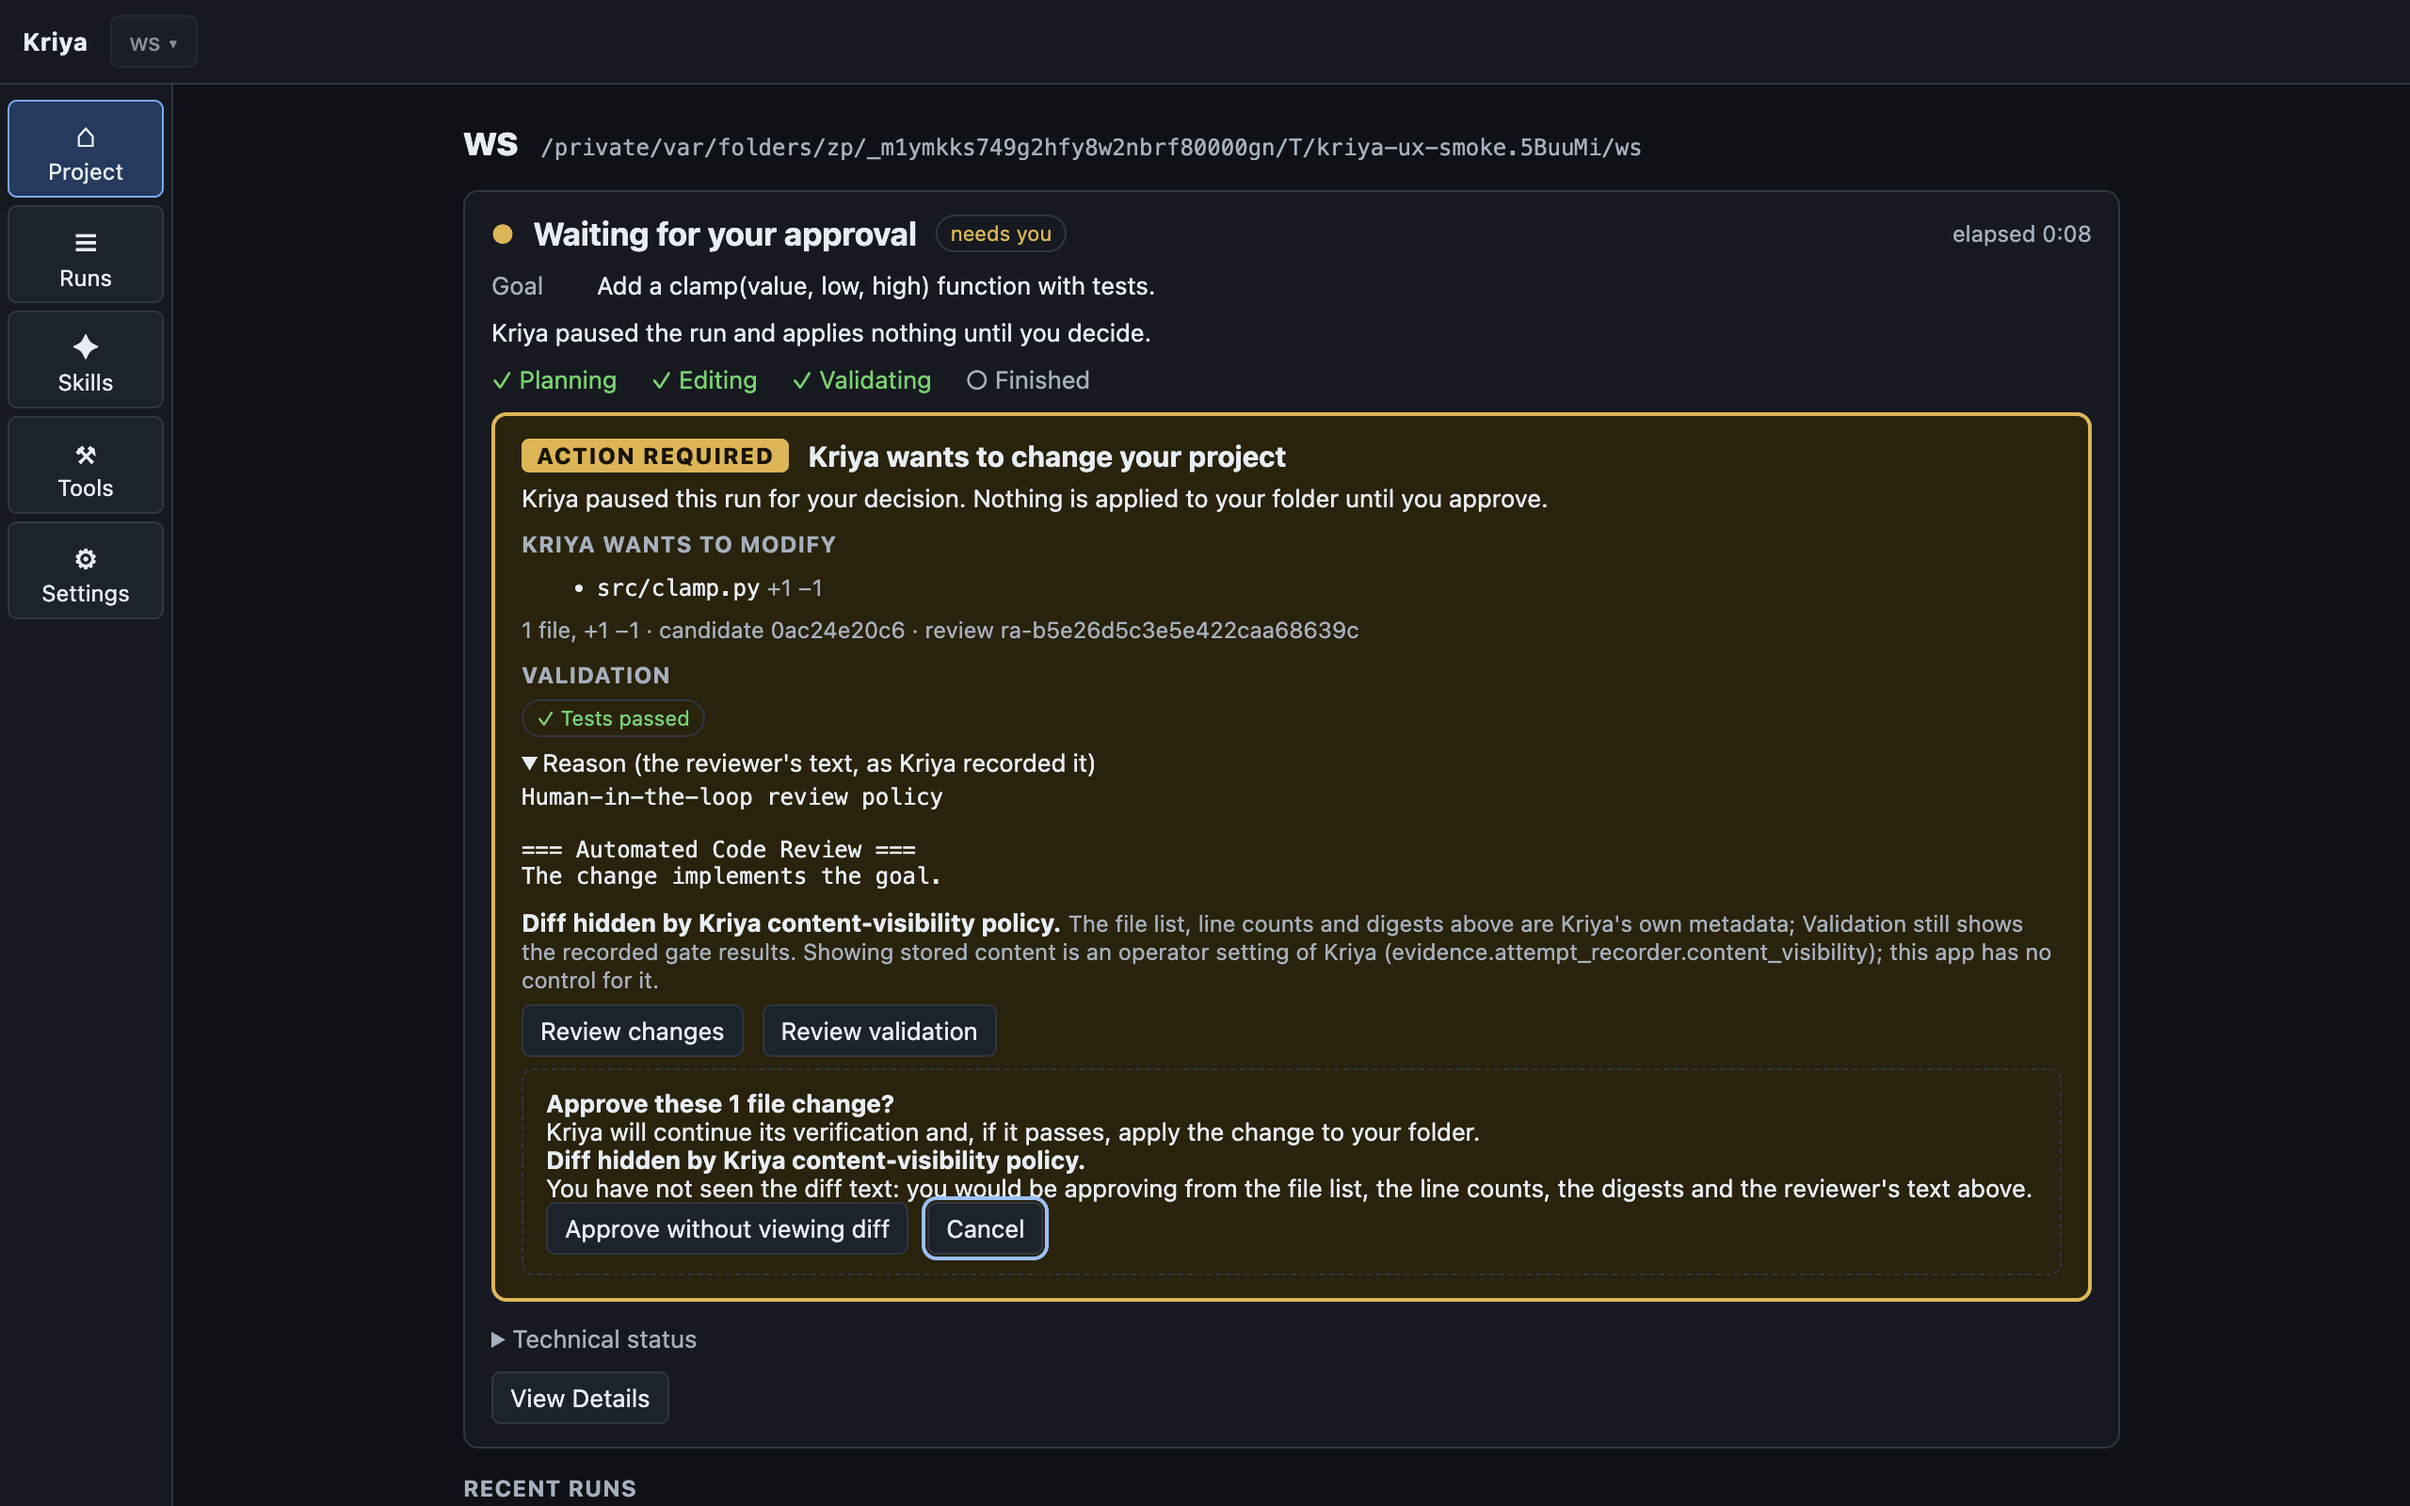
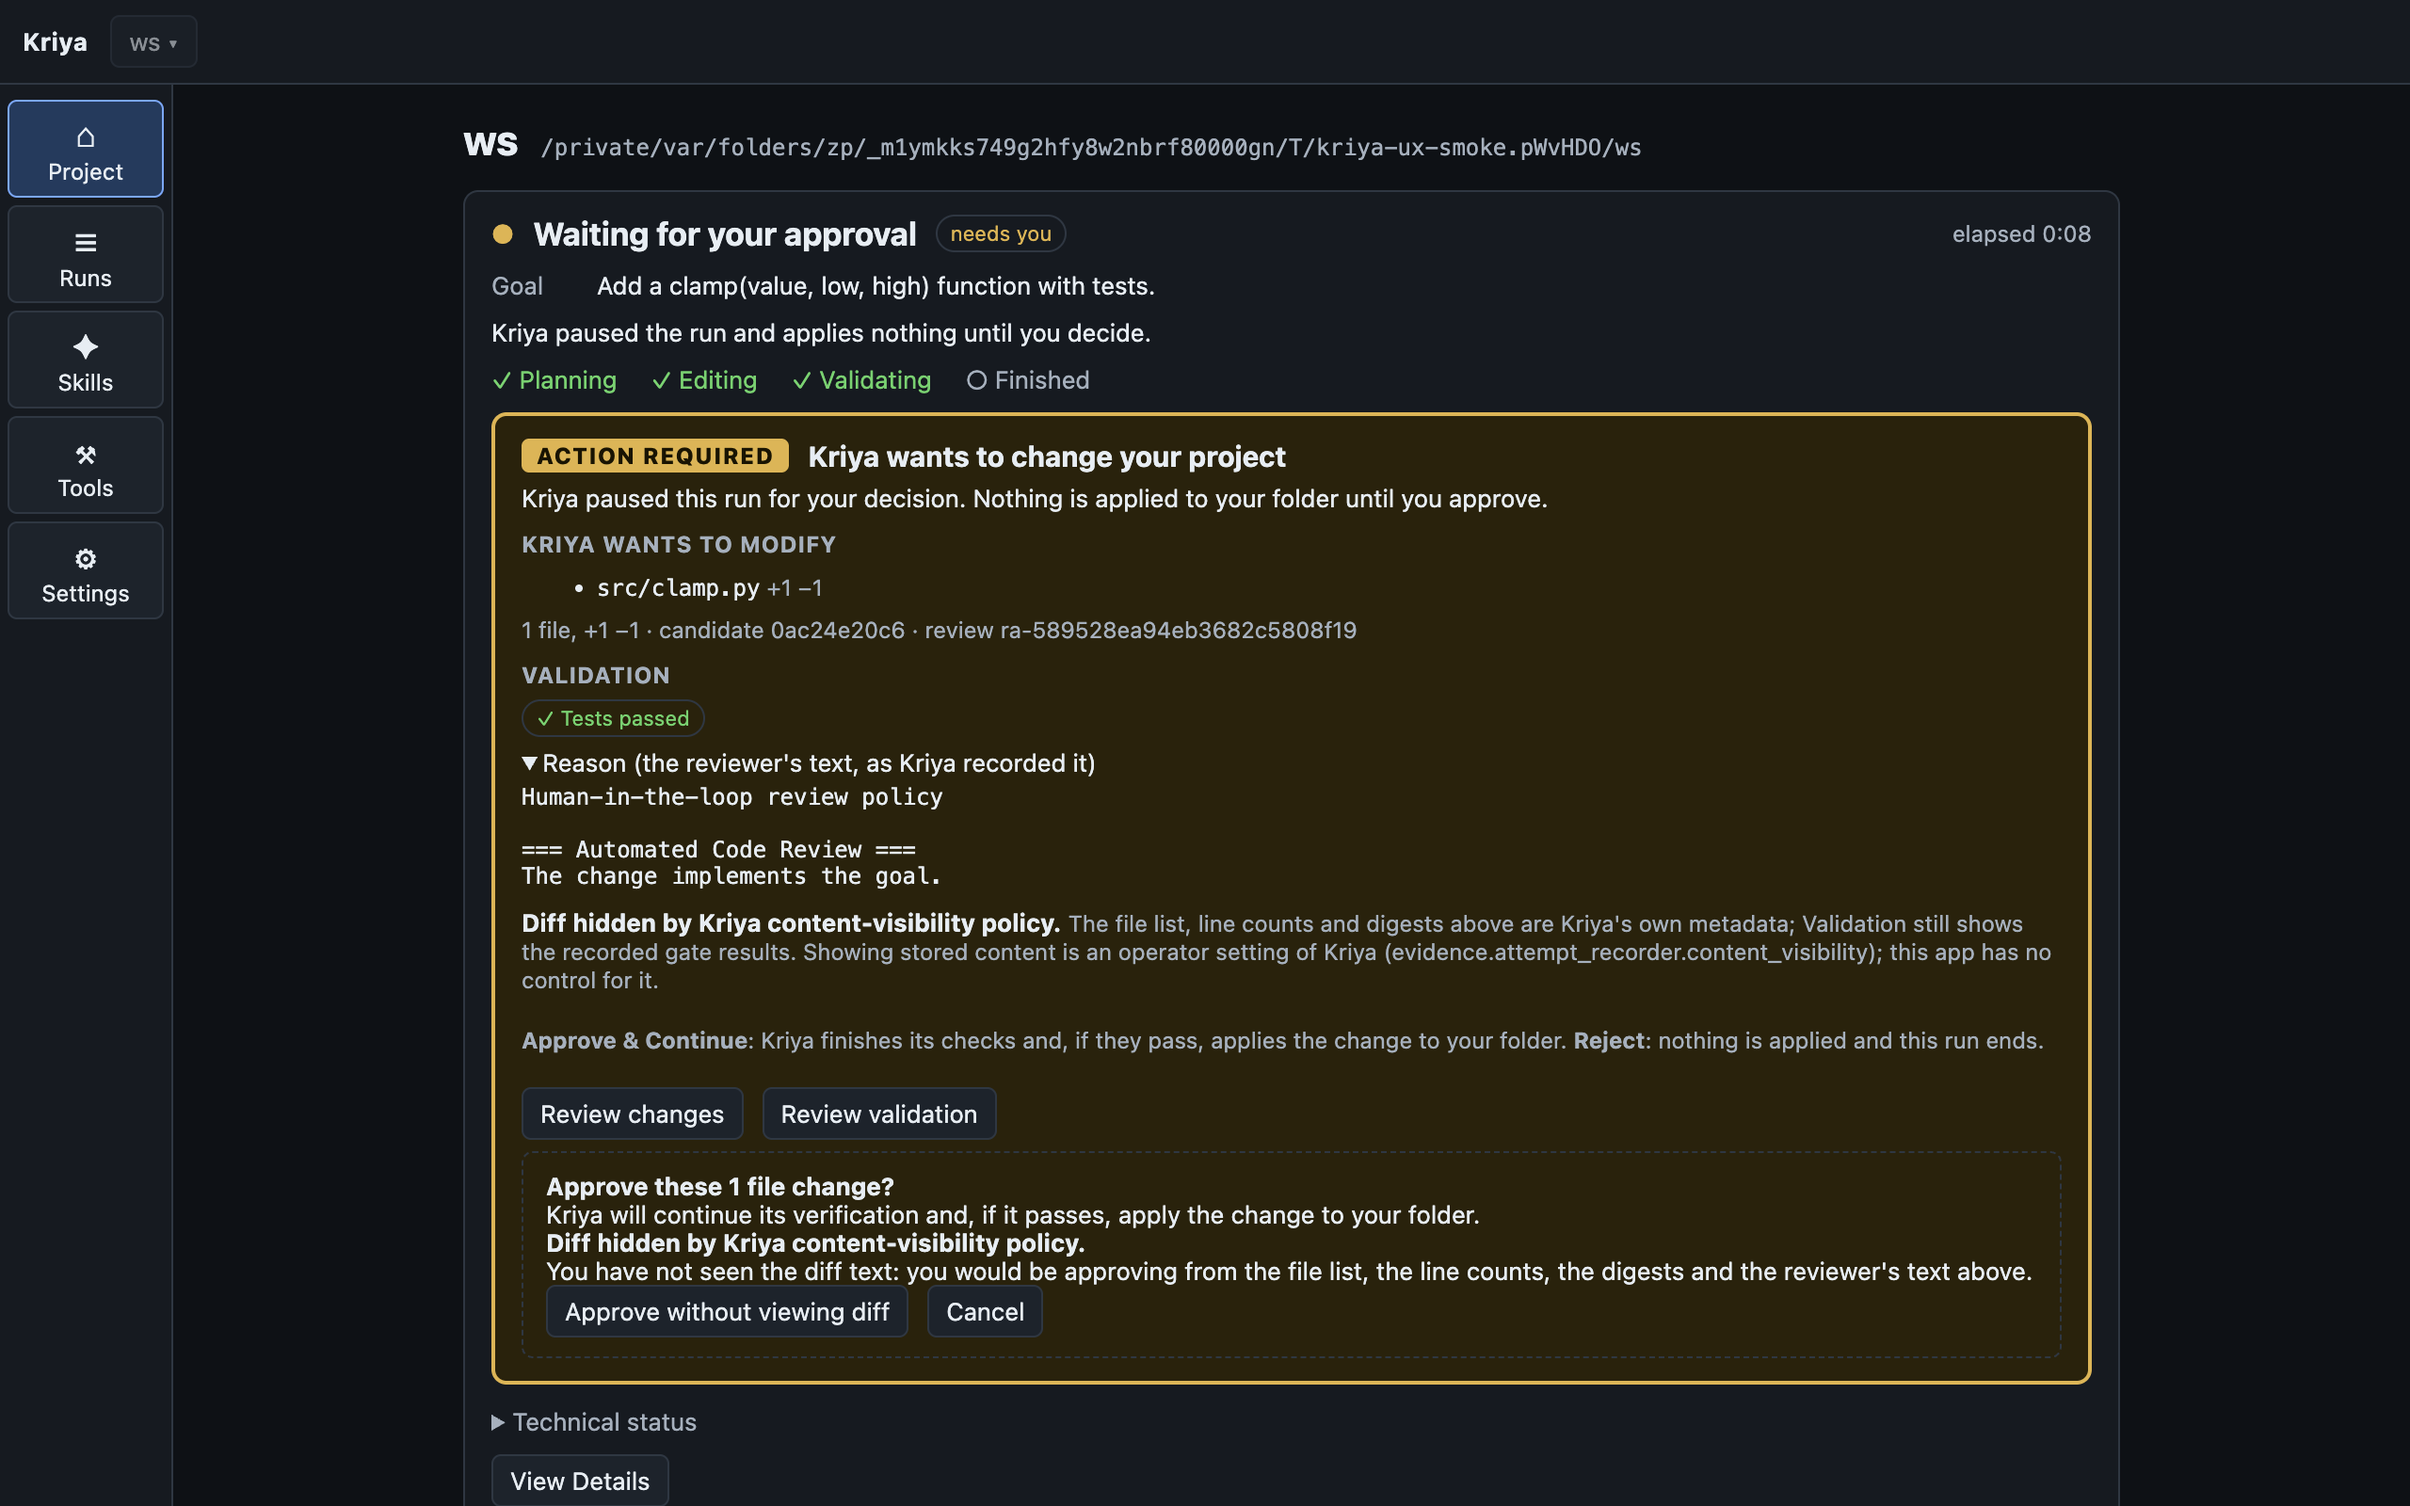
docs(demo-v2): UX correction record, runbook and evidence follow the Project Home flow
UX-CORRECTION.md section 5 (what exists, measured layout at five window sizes, the independent review and what was done with each finding); OWNER_RUNBOOK sections C, D, E, F follow the new journey (Project page, ACTION REQUIRED, Approve & Continue, Details); smoke evidence refreshed after the review fixes.

Changed region(s): [[0.1875, 0.6562, 0.875, 1.0], [0.4375, 0.4062, 0.5625, 0.4375], [0.625, 0.0938, 0.6562, 0.125]]

diff --git a/handover/DEMO-V2/UX-CORRECTION.md b/handover/DEMO-V2/UX-CORRECTION.md
@@ -75,4 +75,40 @@ Stop Run: not offered. There is no stop operation in the host port; adding one w
 
 ## 5. Implementation record
 
-(Filled in as the work lands: files changed, tests, screenshots, review.)
+Commits on `demo/v2` after `ea08255` (not tagged): `029a5f5` Project Home and run flow, `f9a9459` UX smoke + evidence + button specificity, then the review-findings commit and the docs commit (see `git log`).
+
+What exists now (TRACED in the code, MEASURED in the smoke `handover/DEMO-V2/evidence/ux-correction/results.json`):
+
+- **Landing.** `Shell` derives the chosen page per open folder (no effect): a new folder always shows page 1, Project. MEASURED: landing page `project`, current rail item Project, the goal box present, compact `Ready`, details closed, folder name as the heading.
+- **Start Run placement.** Goal box, then one line (`Ready · model · N skills · N tools · View readiness details`), the shortcut hint and the button; Recent runs and `Project details` follow. MEASURED at content sizes 1280x800, 1400x900 (the app's default window), 1536x960, 1280x720 and 1100x700: Start Run's bottom edge is at 263 px in every case, fully visible, no page or main scroll. The owner's display is 3456x2234 native (a 1728x1117 point desktop), so the default 1400x900 window fits.
+- **Shortcut.** Cmd/Ctrl+Enter in the goal box starts the run (disabled when empty or blocked; plain Enter only adds a line; a second press cannot start a second run). Shown beside the button. Cmd/Ctrl+1..5 select Project, Runs, Skills, Tools, Settings; they follow the rail order.
+- **Current run.** The page becomes the run (goal composer gone). The state word, one sentence and a four-step list are all derived by `core/runPhase.ts` from Kriya's records; Technical status (run id, record tallies, DERIVED liveness, source) is one disclosure down.
+- **ACTION REQUIRED.** The change review (moved to `core/ApprovalReview.tsx` so the Project page can host it; exactly one "Change review" section exists) is a boxed panel: the files, `+n -m`, the recorded validation, the reviewer text, what each button does, **Reject** and **Approve & Continue**. The confirmation step (Cancel focused, "Approve without viewing diff" when the diff text is hidden) is unchanged: approval semantics did not change.
+- **Strip on every other page.** `ActiveRunBanner` is now one line: `Run active · phase · Return to Run`, or `ACTION REQUIRED · Change approval waiting · Review`; after the run `Run completed/failed/stopped · View Result · Dismiss`. It is absent on the Project page, where the run is the page.
+- **Runs is history.** `Run history` list, `New Run` (goes to Project), `No runs yet.` + `Go to Project` when empty, `Select a run` + `Go to Project` with nothing selected. The side panel and bottom drawer appear only once a run is selected. Run documents: Overview (now opens with *What happened*), Changes, Validation, Details (Context, Plan, Attempts, Evidence). Timeline and WHY stay in the side panel (they drive the selection the other documents follow, so they were not moved into a tab); Build, Tests, Git and Raw Events stay as the drawer's placeholders.
+- **Removed.** The toolbar's `Drawer` button (wired to nothing: `toggles.drawer` was the constant `false`); `Runs pane` / `Inspector` were renamed `Run list` / `Side panel` and now appear only on the Runs page.
+
+### Run phase mapping (final)
+
+As in section 4, with these results: UNDERSTANDING is not a state; STOPPED covers only the recorded `rejected`, `review_expired` and `approval_required` outcomes; there is no Stop Run control because the host port has no stop operation. The sampled states of the smoke run: `STARTING, PLANNING, EDITING, VALIDATING`, then `WAITING_FOR_APPROVAL`, then `VALIDATING` (after the person's approval) and `COMPLETED`.
+
+### Independent UX review (fresh reviewer, screenshots only)
+
+Verdict: FAIL, narrowly, with no BLOCKING finding. Open folder, start, progress and the approval prompt were judged clear. IMPORTANT findings and what was done:
+
+| Finding | Disposition |
+|---|---|
+| Reject fires at once and says nothing about its effect | FIXED: the panel states what each decision does before it is pressed. No confirmation was added to Reject (that would be a new approval semantic). |
+| "+1 -1" at approval, "+3 -0" at the end | NOT A PRODUCT DEFECT (MEASURED/TRACED): the controlled workflow body used by the smoke feeds a synthetic one-line diff to the real approval path while its evidence records 3/0 (`ui/standalone/test/fixtures/controlled_kriya.py`). In the real scenario A run both read `+1 -0`. |
+| Completed card never says the change reached the folder; raw `NO_COMMIT`, `Source: Kriya RunRecord` | FIXED: "The change is applied to your folder" only when the RunRecord says `COMMITTED`; any other value is quoted with "Check your folder" (the controlled body records `NO_COMMIT`, and the screenshot shows exactly that); raw code and source moved under Technical status. |
+| No way to stop a run | DEFERRED (stop condition: needs a new host operation). Tracked in the report. |
+| Runs Overview is a wall of identifiers | FIXED: *What happened* (outcome, changed files, recorded validation) first; the identifiers stay below. |
+| Hidden-diff notice exposes a config key and no action | DEFERRED: it is Kriya's own honest policy wording and part of the approval semantics; reworded later with the owner. |
+
+COSMETIC, recorded for later: elapsed time after completion (FIXED anyway); "Waiting for Kriya to record the launch." is internal phrasing; the Skills page lists Java skills for a Python goal (fixture content, and Skills are chosen per run); "Ready" appears twice on the Project page; `0/16000`; no Approval step in the checklist; `Run list`/`Side panel` labels; "No runs yet." under Recent runs while the first run is active.
+
+### Verification
+
+`ui/shared` vitest 568 pass (baseline 520); `ui/standalone` vitest 348 pass, 1 skipped (baseline identical); `npm run typecheck` and `npm run lint` exit 0; mutants for the phase mapping, facts, landing, strip, details tab, shortcut, blocker, diff-viewed logic, applied-statement, decision help, overview summary and elapsed: all killed (one surviving mutant, M2, was a real test gap and was fixed by asserting the planning sentences). Tests changed rather than weakened: the old assertions were moved to where the feature now lives (the banner tests became strip tests; the Workspace page tests became Project tests), and the structural tripwire for evidence interpretation now also covers the files that moved out of `shell/`.
+
+Not done by design: no Demo V2 scenario was run, no final validation, no tag. The `ui/standalone/make-capture-*.mjs` generators were renamed mechanically and not re-run (the live ones need a model). The owner's vim session holds `demo-v2/OWNER_RUNBOOK.md` open (`demo-v2/.OWNER_RUNBOOK.md.swp`, untracked, not touched); `tests/test_demo_v2_assets.py::test_nothing_machine_specific_or_heavy_is_committed` fails only while that binary swap file exists (all tracked files pass it).

diff --git a/demo-v2/OWNER_RUNBOOK.md b/demo-v2/OWNER_RUNBOOK.md
@@ -27,7 +27,7 @@ One launch per scenario (quit the app with Cmd+Q before the next one):
 ```bash
 demo-v2/scripts/launch_gui.sh --scenario 01     # or 02, or 03
 ```
-In the app: **Open Folder**, press Cmd+Shift+G in the dialog and paste (the workspace path is already on your clipboard), Enter.
+In the app: **Open Folder**, press Cmd+Shift+G in the dialog and paste (the workspace path is already on your clipboard), Enter. The **Project** page opens by itself: type the goal, press **Start Run** (or ⌘ Enter), and the page becomes the run. The left list is Project, Runs, Skills, Tools, Settings (keys 1 to 5); while a run is active every other page shows a strip at the top with **Return to Run**, or **ACTION REQUIRED** with **Review** when Kriya needs you.
 
 ## D. Scenario A - normal live coding run (Spring Boot bug fix)
 ```bash
@@ -36,7 +36,7 @@ demo-v2/scripts/verify_demo.sh --scenario 01 --phase pre          # must say 0 f
 demo-v2/scripts/launch_gui.sh --scenario 01
 pbcopy < demo-v2/scenarios/01-normal-coding/goal.md               # the goal
 ```
-In the app: Open Folder -> check **Run Setup** (model routing, models available) -> paste the goal -> **Start Run** -> watch the timeline, plan, unit and attempt -> when the **change review** appears, review it and **Approve** (the review shows the file, `+1 -0`, the reviewer text and validation; the diff text itself is hidden by Kriya's default content-visibility policy) -> open **Evidence**.
+In the app: Open Folder -> the **Project** page shows the model and "Ready" under the goal box (**Project details** has the full readiness and the model routing) -> paste the goal -> **Start Run** -> the page names what Kriya is doing (Planning, Editing, Validating) -> when **ACTION REQUIRED** appears, read the file, `+1 -0`, the validation and the reviewer text (the diff text itself is hidden by Kriya's default content-visibility policy), then **Approve & Continue** (a confirmation follows) -> the page says **Run completed** with the changed file and the recorded validation; **View Evidence** opens the evidence.
 ```bash
 demo-v2/scripts/verify_demo.sh --scenario 01 --phase post         # independent check, no model
 ```
@@ -48,7 +48,7 @@ demo-v2/scripts/verify_demo.sh --scenario 01 --phase post         # independent 
 demo-v2/scripts/verify_demo.sh --scenario 02 --phase pre          # snapshot digest, public lookup OFF, no search container, model listed: 0 failed
 demo-v2/scripts/launch_gui.sh --scenario 02
 ```
-1. In the app: Open Folder -> click **Skills** (third icon in the rail). You see both skills, `unverified`, rules 8 and 4, and for each skill its provenance: source `live_lookup:https://...` on every rule, with the date. The GUI is read-only and does not show rule text.
+1. In the app: Open Folder -> click **Skills** (third item in the left list, or key 3). You see both skills, `unverified`, rules 8 and 4, and for each skill its provenance: source `live_lookup:https://...` on every rule, with the date. The GUI is read-only and does not show rule text.
 2. Show the goal and that it contains no API answer: `cat demo-v2/scenarios/02-knowledge-skill/goal.md` (it names the task, the library and its pinned versions, nothing about how to call it). Show that public lookup is off: `grep -E -A1 "web_lookup_enabled|^search:" $W/scenario-02/workspace/kriya.yaml` (`false`, and an empty search URL).
 3. Run the offline task **in the terminal** (the desktop cannot acknowledge KnowledgeGuard's post-cutoff knowledge risk, so a desktop-started run of this goal stops there by design):
 ```bash
@@ -76,7 +76,7 @@ demo-v2/scripts/verify_demo.sh --scenario 03 --phase pre          # must say 0 f
 demo-v2/scripts/launch_gui.sh --scenario 03
 pbcopy < demo-v2/scenarios/03-controlled-repair/goal.md
 ```
-In the app: Open Folder -> paste the goal -> **Start Run**. **Attempt 1** produces a plausible but wrong candidate and Kriya's validation rejects it (a test that passed before now fails). Open **Attempts** and the **Why** panel: first failed gate `tests`, the recorded diagnosis, "what Kriya did next". **Attempt 2** is a repair; validation passes; **Approve** the change.
+In the app: Open Folder -> paste the goal -> **Start Run**. **Attempt 1** produces a plausible but wrong candidate and Kriya's validation rejects it (a test that passed before now fails); the page then shows **Repairing**. Open **View Details** -> **Details** -> **Attempts**, and the **WHY** panel in the side panel: first failed gate `tests`, the recorded diagnosis, "what Kriya did next". **Attempt 2** is a repair; validation passes; **ACTION REQUIRED** appears: **Approve & Continue**.
 ```bash
 demo-v2/scripts/verify_demo.sh --scenario 03 --phase post
 demo-v2/scripts/stub_ctl.sh stop
